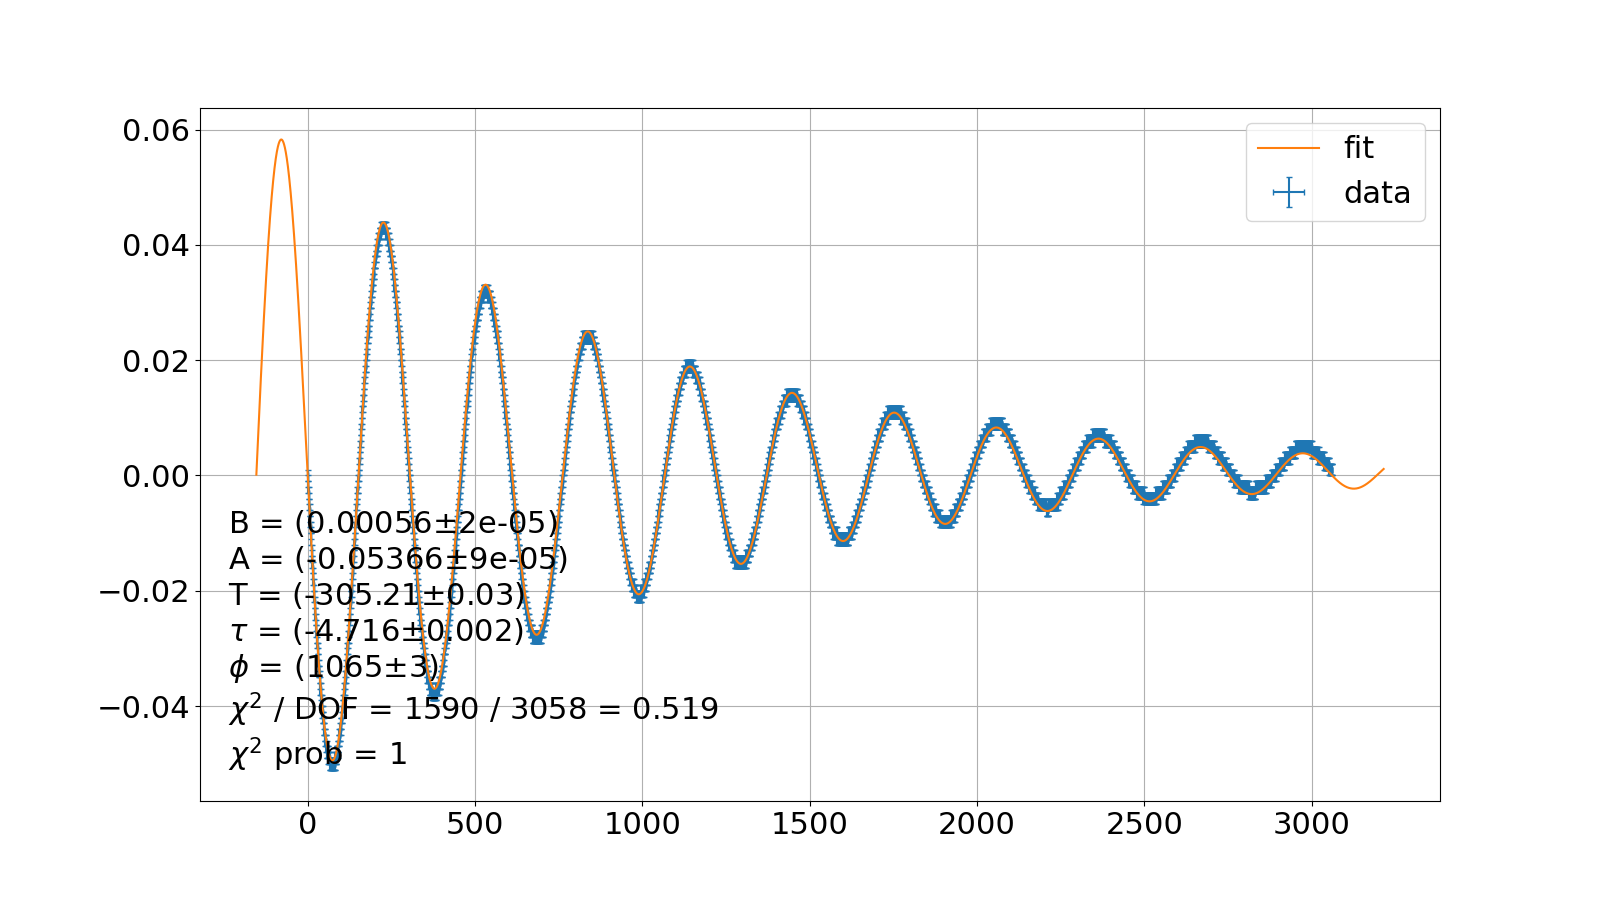
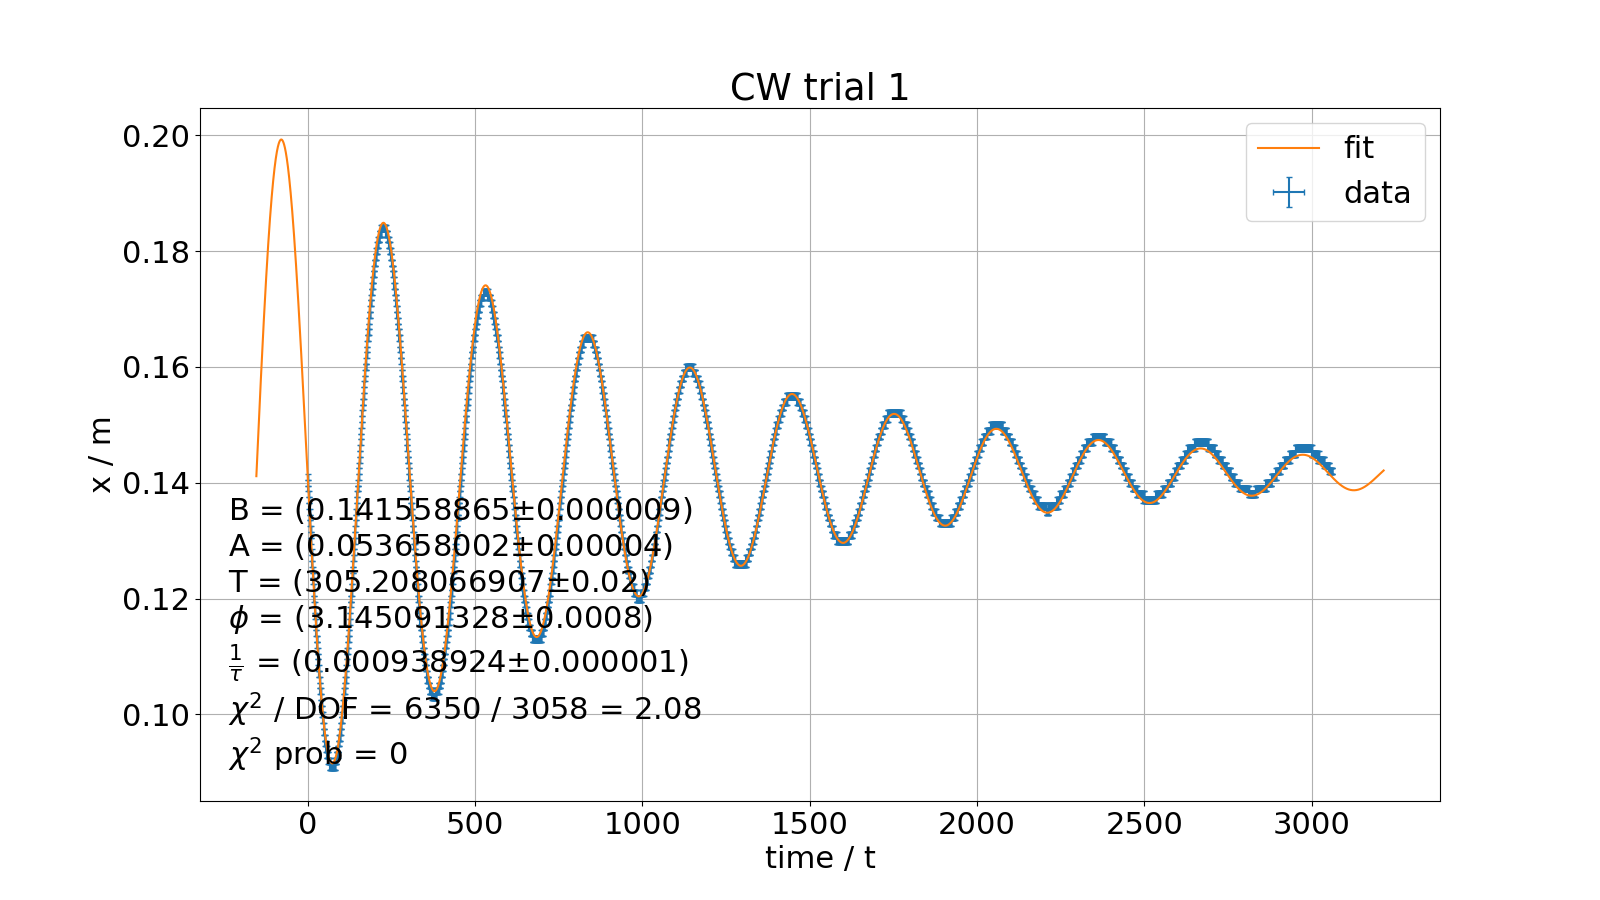
produces good plots! still x vs t plots

diff --git a/error_propagation.py b/error_propagation.py
@@ -4,46 +4,25 @@ class ErrorPropagation():
     def __init__(self):
         pass
 
-    def add(self, a, b): # a + b
-        best_guess = a.data + b.data
-        uncertainty = np.sqrt(a.uncertainty ** 2 + b.uncertainty ** 2)
-
-        result = PhysicalQuantity(best_guess, uncertainty)
+    def sum_of_squares(self, arr):
+        result = np.sum(arr**2)
         return result
 
-    def subtract(self, a, b): # a - b
-        best_guess = a.data - b.data
-        uncertainty = np.sqrt(a.uncertainty ** 2 + b.uncertainty ** 2)
-
-        result = PhysicalQuantity(best_guess, uncertainty)
+    def root_sum_of_squares(self, arr):
+        result = np.sqrt(self.sum_of_squares(arr))
         return result
 
-    def multiply(self, a, b): # a * b
-        best_guess = a.data * b.data
-        uncertainty = np.sqrt(((a.uncertainty / a.data) ** 2 + (b.uncertainty / b.data) ** 2)) * best_guess
+    def add(self, best_guesses, uncertainties):
+        best_guess = np.sum(best_guesses)
+        uncertainty = self.root_sum_of_squares(uncertainties)
+        return (best_guess, uncertainty)
 
-        result = PhysicalQuantity(best_guess, uncertainty)
-        return result
+    def multiply(self, best_guesses, uncertainties):
+        best_guess = np.prod(best_guesses)
+        uncertainty = self.root_sum_of_squares(uncertainties / best_guesses)
+        return (best_guess, uncertainty)
 
-    def divide(self, a, b): # a / b
-        best_guess = a.data / b.data
-        uncertainty = ((a.uncertainty / a.data) + (b.uncertainty / b.data)) * best_guess
-
-        result = PhysicalQuantity(best_guess, uncertainty)
-        return result
-
-    def exponentiate(self, a, b): # a ** b
-        best_guess = a.data ** b.data
-        a_uncertainty = ((b.data.value * (a.data.value ** (b.data.value - 1))) * a.uncertainty)
-        b_uncertainty = ((np.log(a.data.value) * (a ** b)) * b.uncertainty)
-        uncertainty = np.sqrt(a_uncertainty ** 2 + b_uncertainty ** 2)
-
-        result = PhysicalQuantity(best_guess, uncertainty)
-        return result
-
-    def reciprocate(self, a): # 1 / a
-        from astropy import units as u
-        constant_1 = PhysicalQuantity(1 * u.dimensionless_unscaled, 0 * u.dimensionless_unscaled)
-
-        result = self.divide(constant_1, a)
-        return result
+    def average(self, best_guesses, uncertainties):
+        best_guess = np.sum(best_guesses) / len(best_guesses)
+        uncertainty = self.root_sum_of_squares(uncertainties) / len(uncertainties)
+        return (best_guess, uncertainty)

diff --git a/main.py b/main.py
@@ -14,18 +14,26 @@ import fitting
 def run_main(filename, show=False, save=False):
     data = data_loader.DataLoader(filename)
     model = fit_models.DecayingSinusoid()
-    
-    fit = fitting.Fitting(model=model, x=data.x, x_error=data.x_error, y_measured=data.y, y_error=data.y_error,
-                          units_for_parameters=('', '', '', '', ''), p0=(0.14, 0.016, 2*np.pi/0.02, -13, 100))
+
+    units_for_parameters = None # ('B', 'A', 'T', r'$\phi$', r'$\frac{1}{\tau}$')
+
+    try:
+        fit = fitting.Fitting(model=model, x=data.x, x_error=data.x_error, y_measured=data.y, y_error=data.y_error,
+                              units_for_parameters=units_for_parameters, p0=(0, 0.02, 250, 1, 0.01))
+    except RuntimeError:
+        fit = fitting.Fitting(model=model, x=data.x, x_error=data.x_error, y_measured=data.y, y_error=data.y_error,
+                              units_for_parameters=units_for_parameters, p0=(0, 0.02, 250, -1, 0.01))
     
     fig, ax = plt.subplots(1, 1, figsize=(16, 9))
     
     fit.scatter_plot_data_and_fit(ax)
-    
-    ax.set_title('')
+
+    plot_title = filename.split('_')[0] + ' trial ' + filename.split('_')[1]
+
+    ax.set_title(plot_title)
     ax.grid(visible=True, which='both')
-    ax.set_ylabel('')
-    ax.set_xlabel('')
+    ax.set_ylabel(r'x / m')
+    ax.set_xlabel(r'time / t')
     
     if save:
             fig.savefig('fits/%s_plot.png' % filename)
@@ -42,6 +50,7 @@ all_filenames = {**CCW_filenames, **CW_filenames, **Neutral_filenames}
 
 def run_all(all_filenames):
     for filename in all_filenames:
+        print(filename)
         run_main(filename, show=True, save=True)
 
 run_all(all_filenames)

diff --git a/data_loader.py b/data_loader.py
@@ -1,4 +1,7 @@
 import numpy as np
+
+import error_propagation
+ErrorPropagation = error_propagation.ErrorPropagation()
 from fitting_and_analysis import CurveFitFuncs
 cff = CurveFitFuncs()
 
@@ -13,12 +16,14 @@ class DataLoader():
         
         raw_times = [time.split(':') for time in self.full_data[0][start_sample:]]
         raw_times = np.array([float(h) * 3600 + float(m) * 60 + float(s) for [h, m, s] in raw_times])
-        
+
+        l = 1
+
         self.zeroed_times = cff.remove_systematic_error(raw_times)
-        self.zeroed_positions = cff.remove_systematic_error(raw_positions)
+        self.angles = np.arctan(raw_positions / l)
         
-        self.y = self.zeroed_positions
-        self.y_error = np.zeros_like(self.zeroed_positions) + 0.005
+        self.y = raw_positions
+        self.y_error = np.zeros_like(self.angles) + 0.0005
         
         self.x = self.zeroed_times
         self.x_error = np.zeros_like(self.zeroed_times) + 0.0005

diff --git a/fitted_models.py b/fitted_models.py
@@ -51,7 +51,6 @@ class Linear():
         result = self.function(x, *self.popt)
         return result
 
-
 class DecayingSinusoid():
     def __init__(self, popt, parameter_errors, units_for_parameters=None):
         self.popt = popt
@@ -62,7 +61,7 @@ class DecayingSinusoid():
         self.number_of_parameters = self.function.number_of_parameters
         self.parameter_names = ('B', 'A', 'T', r'$\phi$', r'$\frac{1}{\tau}$')
         if units_for_parameters == None:
-            self.units_for_parameters = tuple(np.zeros(self.number_of_parameters))
+            self.units_for_parameters = tuple(np.zeros(shape=self.number_of_parameters, dtype=str))
         else:
             self.units_for_parameters = units_for_parameters
 

diff --git a/fitting_and_analysis.py b/fitting_and_analysis.py
@@ -59,7 +59,7 @@ class Output():
         ax.errorbar(x, y, yerr=yerr, xerr=xerr, linestyle='None', capsize=2, marker='.', **kwargs)
 
     def get_dp(self, num): # returns number of decimal places
-        if not math.isinf(num):
+        if type(num) == float:
             decimal = Decimal(str(num))
             if decimal.as_tuple().exponent >= 0:
                 dp = -int(np.log10(num))

diff --git a/fitting.py b/fitting.py
@@ -7,6 +7,7 @@ font = {'family' : 'DejaVu Sans',
 rc('font', **font)
 from matplotlib.offsetbox import AnchoredText
 
+
 from fitting_and_analysis import CurveFitFuncs
 from fitting_and_analysis import CurveFitAnalysis
 from fitting_and_analysis import Output
